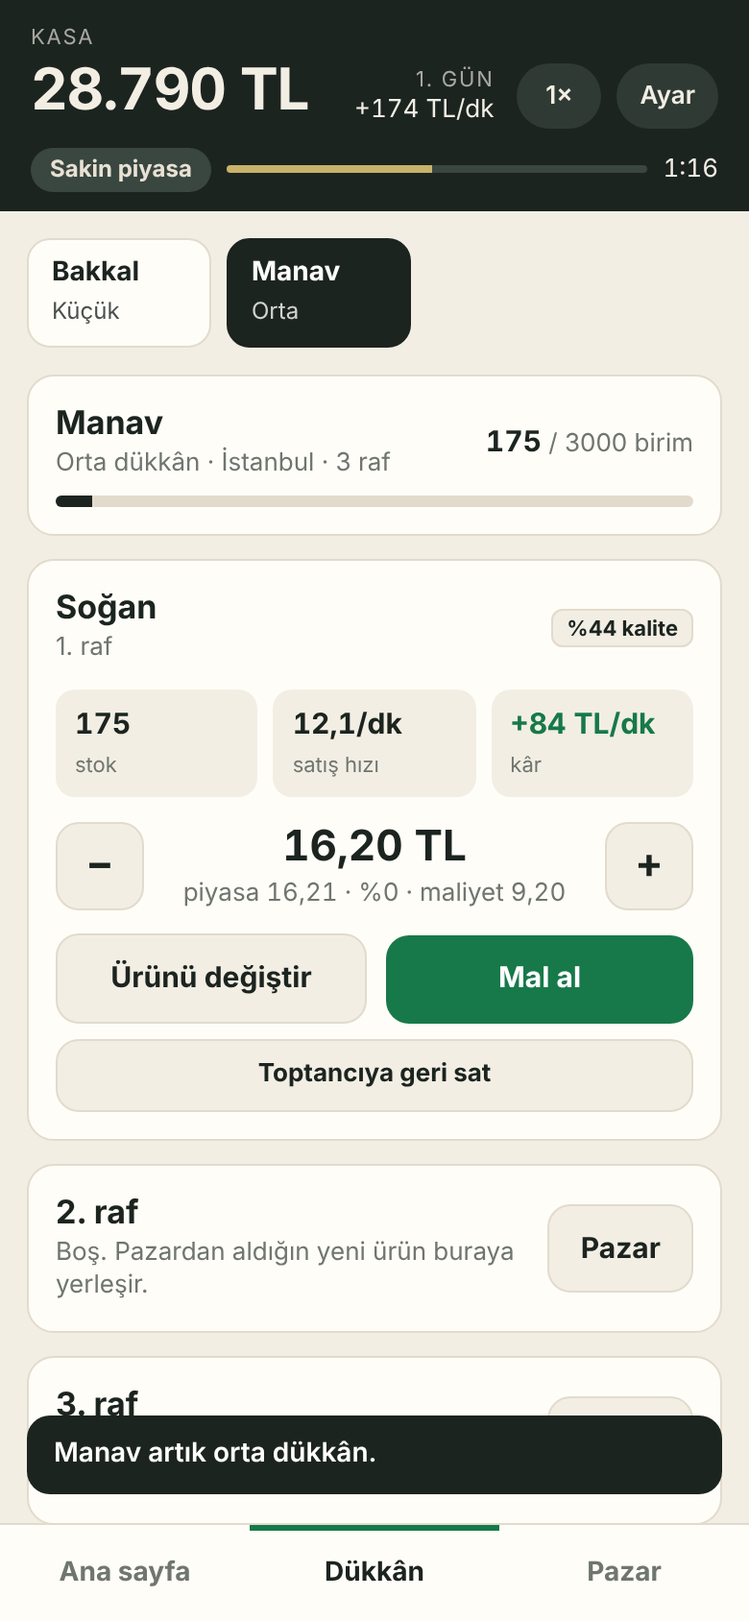
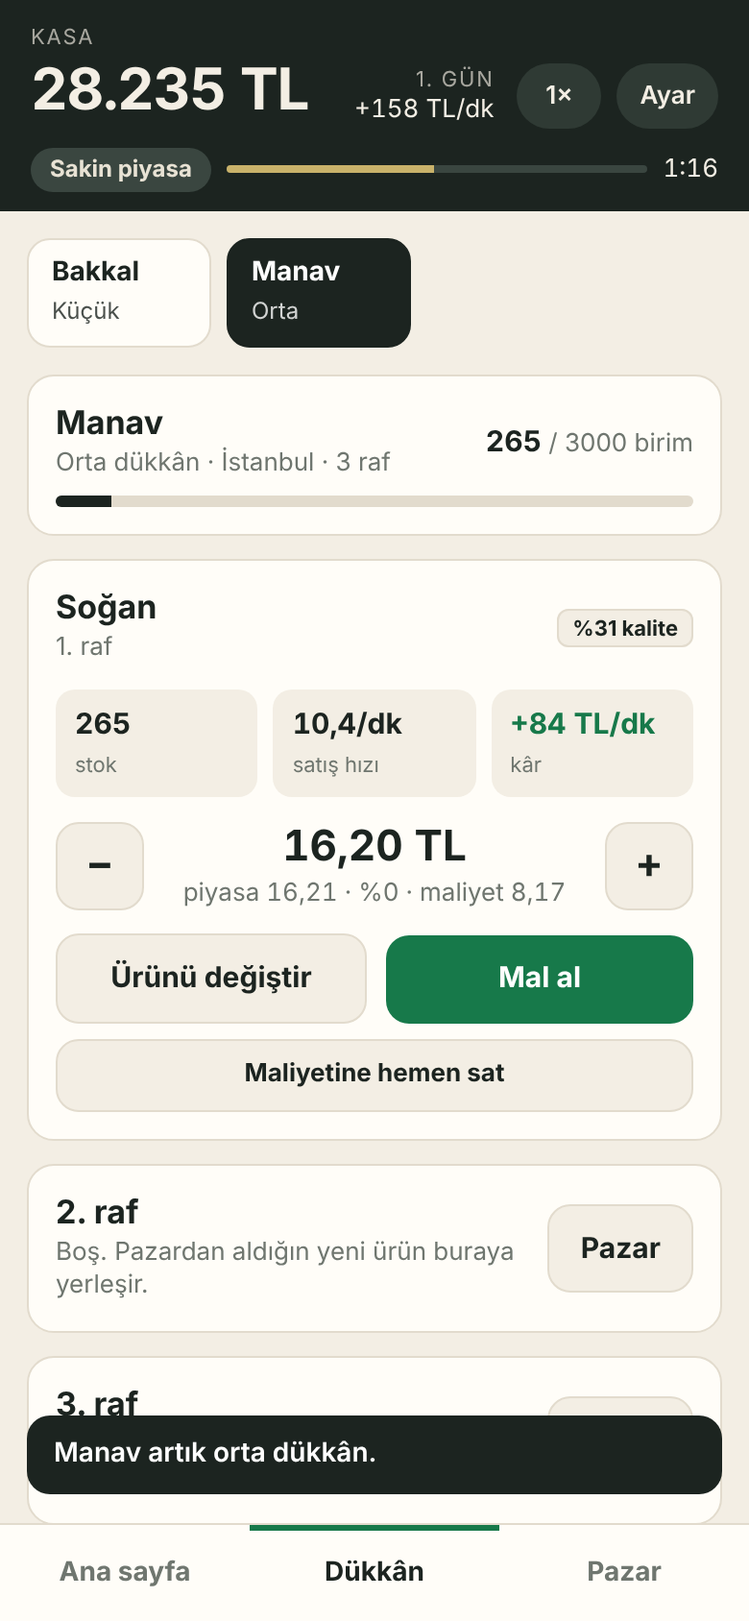
Pazarda ilan verme; geri satış 'maliyetine hemen sat' oldu (piyasa düşüşü riski oyuncuda)
Claude-Session: https://claude.ai/code/session_016ga1EdVkJkJaVmwRgvhwTG

diff --git a/src/ui.ts b/src/ui.ts
@@ -3,7 +3,7 @@
 import {CONFIG} from "./data/config";
 import {TYPES} from "./data/shops";
 import {tl,clamp} from "./format";
-import {S,P,T,PIDS,roundP,sysPrice,refPrice,ship,net,sysListing,allListings,shopOf,depotUsed,depotCap,qualMult,shelfRate,shopProfit,profitPerMin,shopRent,upCost,xpNeed,maxBuy,buy,upgrade,openShop,loanLimit,borrow,repay,step,newGame,setOnEv,snapshot,restore,interestRate,taxFor,dayProfit,rentTotal,sellBack,sellBackPrice,dayProfitEstimate} from "./engine";
+import {S,P,T,PIDS,roundP,sysPrice,refPrice,ship,net,sysListing,allListings,shopOf,depotUsed,depotCap,qualMult,shelfRate,shopProfit,profitPerMin,shopRent,upCost,xpNeed,maxBuy,buy,upgrade,openShop,loanLimit,borrow,repay,step,newGame,setOnEv,snapshot,restore,interestRate,taxFor,dayProfit,rentTotal,sellBack,sellBackPrice,dayProfitEstimate,shopOffers,offerFair,offerRateAt,offerSlots,createOffer,cancelOffer} from "./engine";
 
 /* ---- Arayüz ---- */
 const $=id=>document.getElementById(id);
@@ -11,7 +11,9 @@ let dirty=true,pend={},sheetL=null,sheetQ=0,toastT;
 const cur=()=>S.shops[S.cur];
 function toast(m){const t=$("toast"),up=$("sheetbg").classList.contains("on");t.style.top=up?"104px":"auto";t.style.bottom=up?"auto":"66px";t.textContent=m;t.classList.add("on");clearTimeout(toastT);toastT=setTimeout(()=>t.classList.remove("on"),2600)}
 setOnEv((k,d)=>{
-  if(k==="sale"){const p=pend[d.pid]||(pend[d.pid]={n:0,r:0,si:d.si});p.n+=d.n;p.r+=d.r}
+  if(k==="sale"){const p=pend[d.pid]||(pend[d.pid]={n:0,r:0,si:d.si,pid:d.pid});p.n+=d.n;p.r+=d.r}
+  else if(k==="offerSale"){const p=pend["o_"+d.pid]||(pend["o_"+d.pid]={n:0,r:0,si:d.si,pid:d.pid,o:1});p.n+=d.n;p.r+=d.r}
+  else if(k==="offerDone"){toast(P[d.pid].ad+" ilanın tükendi.");dirty=true}
   else if(k==="market"){const s=S.market.state;toast("Piyasa güncellendi: "+CONFIG.states[s].ad+(s==="canli"?". Fiyatlar yükseldi.":s==="kotu"?". Fiyatlar düştü.":"."));dirty=true}
   else if(k==="listings"){if(S.tab==="market"&&!sheetL)dirty=true}
   else if(k==="empty"){toast(P[d.pid].ad+" bitti. Raf boş.");dirty=true}
@@ -19,7 +21,7 @@ setOnEv((k,d)=>{
   else if(k==="day"){S.feed.unshift({t:d.day+". gün kapandı: "+d.sold+" satış; kira"+(d.interest>0?", faiz":"")+(d.tax>0?", vergi":""),v:-d.total,si:-1});dirty=true}
   else if(k==="dead"){openEnd()}
 });
-function flushFeed(){let ch=false;for(const id in pend){const p=pend[id];S.feed.unshift({t:p.n+" × "+P[id].ad,v:p.r,nw:1,si:p.si});ch=true}pend={};if(S.feed.length>40)S.feed.length=40;
+function flushFeed(){let ch=false;for(const id in pend){const p=pend[id];S.feed.unshift({t:(p.o?"Pazar: ":"")+p.n+" × "+P[p.pid].ad,v:p.r,nw:1,si:p.si});ch=true}pend={};if(S.feed.length>40)S.feed.length=40;
   if(ch&&S.tab==="shop"){const f=$("feed");if(f)f.innerHTML=feedHtml()}S.feed.forEach(x=>x.nw=0)}
 const feedHtml=()=>{const F=S.feed.filter(x=>x.si===S.cur||x.si===-1).slice(0,10);return F.length?F.map(x=>`<div class="${x.nw?"new":""}"><span>${x.t}</span><b class="num ${x.v<0?"dn":"up"}">${x.v<0?"−":"+"}${tl(Math.abs(x.v))} TL</b></div>`).join(""):`<div><span class="sub">Henüz satış yok.</span></div>`};
 function qTag(q){return `<span class="tag q ${q>=70?"hi":""}">%${Math.round(q)} kalite</span>`}
@@ -53,13 +55,25 @@ function renderShop(){
     h+=`<div class="card"><div class="row"><div><h2>${P[sf.pid].ad}</h2><div class="sub">${i+1}. raf</div></div><div>${st.q>0?qTag(st.qual):`<span class="tag k">Stok yok</span>`}</div></div>
     <div class="kv"><div><b class="num" id="q-${sf.pid}">${st.q}</b><span>stok</span></div><div><b class="num">${tl(rate,1)}/dk</b><span>satış hızı</span></div><div><b class="num ${pr>=0?"up":"dn"}">${st.q>0?(pr>=0?"+":"−")+tl(Math.abs(pr),0):"0"} TL/dk</b><span>kâr</span></div></div>
     <div class="price"><button class="step" data-a="price" data-i="${i}" data-v="-1" aria-label="Fiyatı azalt">−</button><div class="pmid"><b class="num">${tl(sf.price)} TL</b><div class="sub num">piyasa ${tl(ref)} · <span class="${diff>0.5?"dn":diff<-0.5?"up":""}">${Math.abs(diff)<.5?"":diff>0?"+":"−"}%${tl(Math.abs(diff),0)}</span> · maliyet ${tl(st.cost)}</div></div><button class="step" data-a="price" data-i="${i}" data-v="1" aria-label="Fiyatı artır">+</button></div>
-    <div class="row" style="margin-top:12px"><button class="btn ghost" style="flex:1" data-a="swap" data-i="${i}">Ürünü değiştir</button><button class="btn g" style="flex:1" data-a="goto" data-v="${sf.pid}">Mal al</button></div>${st.q>0?`<button class="btn ghost sm full" style="margin-top:8px" data-a="sellback" data-v="${sf.pid}">Toptancıya geri sat</button>`:""}</div>`});
+    <div class="row" style="margin-top:12px"><button class="btn ghost" style="flex:1" data-a="swap" data-i="${i}">Ürünü değiştir</button><button class="btn g" style="flex:1" data-a="goto" data-v="${sf.pid}">Mal al</button></div>${st.q>0?`<button class="btn ghost sm full" style="margin-top:8px" data-a="sellback" data-v="${sf.pid}">Maliyetine hemen sat</button>`:""}</div>`});
   const c=upCost(sh);if(c!=null){const z=CONFIG.sizes[sh.size+1];h+=`<div class="card goal"><div class="row"><div><h2>${z.ad} dükkâna büyüt</h2><div class="sub">${z.shelves} raf, ${tl(z.depot,0)} birim depo. Kira ${tl(Math.round(z.rent*t.tier*CONFIG.rentScale),0)} TL/gün olur.</div></div>${costBtn("upgrade",c)}</div><div class="depo"><i id="goalB" data-c="${c}" style="width:${clamp(S.cash/c*100,0,100)}%"></i></div></div>`}
   h+=`<div class="card"><h2 style="margin-bottom:6px">Son satışlar</h2><div class="feed" id="feed">${feedHtml()}</div></div>`;
   return h}
-function renderMarket(){
+function renderMarket(){const sh=cur(),n=shopOffers(sh).length,mv=S.mview==="offers"?"offers":"buy";
+  const seg=`<div class="seg"><button class="${mv==="buy"?"on":""}" data-a="mview" data-v="buy">Mal al</button><button class="${mv==="offers"?"on":""}" data-a="mview" data-v="offers">İlanlarım (${n}/${offerSlots(sh)})</button></div>`;
+  return mv==="offers"?shopChips()+seg+renderOffers():renderBuy(seg)}
+function renderOffers(){const sh=cur(),os=shopOffers(sh),slots=offerSlots(sh);
+  let h=`<div class="card"><h2>Pazarda ilan</h2><div class="sub" style="margin-top:4px">Depondaki malı toptan satışa çıkar. Alıcılar piyasa değerine yakın fiyatlı ilanları alır; fiyatı düşürdükçe hızlanır. Komisyon %${tl(CONFIG.offerFee*100,0)}. İlandaki mal depoda yer tutar, raftan satılmaz.</div></div>`;
+  os.forEach(o=>{const fair=offerFair(o.pid,o.q),rate=offerRateAt(o.pid,o.q,o.price),df=(o.price/fair-1)*100,unit=o.price*(1-CONFIG.offerFee)-o.cost;
+    h+=`<div class="card"><div class="row"><div><h2>${P[o.pid].ad}</h2><div class="sub num"><span id="o-${o.id}">${o.qty}</span> birim kaldı</div></div>${qTag(o.q)}</div>
+    <div class="kv"><div><b class="num">${tl(o.price)} TL</b><span>ilan fiyatı</span></div><div><b class="num ${rate>0?"":"dn"}">${tl(rate,1)}/dk</b><span>${rate>0?"alıcı hızı":"alıcı yok"}</span></div><div><b class="num ${unit>=0?"up":"dn"}">${unit>=0?"+":"−"}${tl(Math.abs(unit))} TL</b><span>birim kâr</span></div></div>
+    <div class="sub num" style="margin-top:10px">Piyasa değeri ${tl(fair)} TL · ilanın ${Math.abs(df)<.5?"tam değerinde":"%"+tl(Math.abs(df),0)+(df>0?" üstünde":" altında")} · maliyetin ${tl(o.cost)} TL</div>
+    <button class="btn ghost full sm" style="margin-top:10px" data-a="ocancel" data-v="${o.id}">İlanı geri çek</button></div>`});
+  h+=os.length<slots?`<button class="btn full" data-a="offernew">İlan ver</button>`:`<div class="sub" style="text-align:center;padding:8px">İlan hakkın doldu. Dükkânı büyütünce artar.</div>`;
+  return h}
+function renderBuy(seg){
   const sh=cur(),t=T[sh.type],id=S.sel[t.id],p=P[id],h0=S.market.hist[id],prev=h0.length>1?h0[h0.length-2]:h0[0],c0=sysPrice(id),ch=(c0/prev-1)*100,st=sh.stock[id];
-  let h=shopChips()+`<div class="prods">`+t.products.map(a=>{if(S.level<P[a[0]].lvl)return `<button class="lock" data-a="sel" data-v="${a[0]}"><b>${a[1]}</b><span>${P[a[0]].lvl}. seviye</span></button>`;const b=allListings(a[0])[0];return `<button class="${a[0]===id?"on":""}" data-a="sel" data-v="${a[0]}"><b>${a[1]}</b><span class="num">${tl(net(b))} TL</span></button>`}).join("")+`</div>`;
+  let h=shopChips()+seg+`<div class="prods">`+t.products.map(a=>{if(S.level<P[a[0]].lvl)return `<button class="lock" data-a="sel" data-v="${a[0]}"><b>${a[1]}</b><span>${P[a[0]].lvl}. seviye</span></button>`;const b=allListings(a[0])[0];return `<button class="${a[0]===id?"on":""}" data-a="sel" data-v="${a[0]}"><b>${a[1]}</b><span class="num">${tl(net(b))} TL</span></button>`}).join("")+`</div>`;
   h+=`<div class="card"><div class="row"><div><h2>${p.ad}</h2><div class="sub num">Sistem fiyatı ${tl(c0)} TL <span class="${ch>0.5?"up":ch<-0.5?"dn":""}">${Math.abs(ch)<.5?"":(ch>0?"▲":"▼")+" %"+tl(Math.abs(ch),0)}</span></div></div><div style="text-align:right"><b class="num">${tl(refPrice(id))} TL</b><div class="sub">dükkânda satılır</div></div></div>${spark(id)}<div class="sub num">${t.ad} deposunda: ${st.q} birim${st.q?` · %${Math.round(st.qual)} kalite · ${tl(st.cost)} TL maliyet`:""} · temel hız ${tl(p.rate,1)}/dk</div></div>`;
   allListings(id).forEach((l,i)=>{const mrg=(refPrice(id)/net(l)-1)*100;
     h+=`<button class="lst ${l.sys?"sys":""}" data-a="open" data-v="${l.id}"><div class="row"><div><b>${l.seller}</b> ${i===0&&!l.sys?`<span class="tag best">En ucuz</span>`:""} ${l.kelepir?`<span class="tag k">Kelepir</span>`:""}<div class="sm">${l.city} · ${l.km} km · ${l.sys?"sınırsız":l.qty+" birim"}</div></div><div style="text-align:right"><div class="net num">${tl(net(l))} TL</div><div class="sm num">${tl(l.price)} + ${tl(ship(l))} nakliye</div></div></div><div class="row" style="margin-top:8px">${qTag(l.q)}<span class="sm num">hız ×${tl(qualMult(l.q),1)} · <span class="${mrg>0?"up":"dn"}">${mrg>=0?"+":"−"}%${tl(Math.abs(mrg),0)} marj</span></span></div></button>`});
@@ -76,6 +90,7 @@ function tickUI(){
   if(S.tab==="shop"){const sh=cur(),d=depotUsed(sh),n=$("depoN");if(n){n.textContent=d;$("depoB").style.width=d/depotCap(sh)*100+"%"}
     sh.shelves.forEach(sf=>{if(sf){const e=$("q-"+sf.pid);if(e)e.textContent=sh.stock[sf.pid].q}});
     const g=$("goalB");if(g)g.style.width=clamp(S.cash/+g.dataset.c*100,0,100)+"%"}
+  if(S.tab==="market")shopOffers(cur()).forEach(o=>{const e=$("o-"+o.id);if(e)e.textContent=o.qty});
   if(S.tab==="home"){const b=$("xpB");if(b){const a0=+b.dataset.a0,a1=+b.dataset.a1;b.style.width=clamp((S.xp-a0)/(a1-a0)*100,0,100)+"%";const dp=dayProfit(),tx=taxFor(Math.max(0,dp));$("dpT").textContent=tl(dp,0);$("txT").textContent=tx>0?"−"+tl(tx,0)+" TL":"vergi yok";$("xpT").textContent="Sonraki seviyeye "+tl(Math.max(0,a1-S.xp),0)+" TL ciro"}}
   $("main").querySelectorAll("[data-cost]").forEach(b=>{if(b.disabled!==(S.cash<+b.dataset.cost))dirty=true});
 }
@@ -109,13 +124,27 @@ function bankSheet(){sheetL=null;const lim=loanLimit(),av=Math.floor(Math.max(0,
     if(est<=0){w.textContent="Rafların şu an kâr üretmiyor; bu faizi mal satarak karşılaman gerekecek.";w.className="sub dn"}
     else if(fi>est*.5){w.textContent="Dikkat: bu faiz, tahmini günlük kârının (%"+tl(est?fi/est*100:0,0)+") yarısından fazlasını götürür.";w.className="sub dn"}
     else{w.textContent="Bu faiz, tahmini günlük kârının %"+tl(fi/est*100,0)+" kadarı.";w.className="sub"}};b.oninput=u;u()}if(q){const u=()=>$("pv").textContent=f(+q.value);q.oninput=u;u()}}
+let sheetO=null;
+function offerPick(){sheetL=null;const sh=cur(),have=T[sh.type].products.map(a=>P[a[0]]).filter(p=>sh.stock[p.id].q>0);
+  openSheet(`<h2 style="margin-bottom:10px">Hangi malı ilana çıkaracaksın?</h2>`+(have.length?have.map(p=>{const st=sh.stock[p.id];return `<button class="lst" data-a="offerpid" data-v="${p.id}"><div class="row"><b>${p.ad}</b><span class="sm num">${st.q} birim · %${Math.round(st.qual)} · maliyet ${tl(st.cost)}</span></div></button>`}).join(""):`<div class="sub" style="margin-bottom:12px">Depoda mal yok. Önce pazardan al.</div>`)+`<button class="btn ghost full" data-a="close">Kapat</button>`)}
+function offerCalc(){const o=sheetO,sh=cur(),st=sh.stock[o.pid],fair=offerFair(o.pid,st.qual),rate=offerRateAt(o.pid,st.qual,o.price),df=(o.price/fair-1)*100,unit=o.price*(1-CONFIG.offerFee)-st.cost;o.qty=+$("oq").value;
+  $("oqv").textContent=o.qty+" birim";$("opv").textContent=tl(o.price)+" TL";$("opd").textContent=Math.abs(df)<.5?"piyasa değerinde":"piyasa değerinin %"+tl(Math.abs(df),0)+(df>0?" üstünde":" altında");
+  const r=$("ort");r.textContent=rate>0?tl(rate,1)+"/dk · yaklaşık "+tl(o.qty/rate,0)+" dk":"alıcı çıkmaz";r.className=rate>0?"":"dn";
+  const u=$("oun");u.textContent=(unit>=0?"+":"−")+tl(Math.abs(unit))+" TL";u.className=unit>=0?"up":"dn";$("otot").textContent=tl(o.qty*o.price*(1-CONFIG.offerFee),0)+" TL"}
+function offerForm(pid){const sh=cur(),st=sh.stock[pid],fair=offerFair(pid,st.qual);sheetO={pid,qty:st.q,price:roundP(fair)};
+  openSheet(`<div class="row"><div><h2>${P[pid].ad}: ilan ver</h2><div class="sub num">Piyasa değeri ${tl(fair)} TL · maliyetin ${tl(st.cost)} TL</div></div>${qTag(st.qual)}</div>
+  <div class="price"><button class="step" data-a="oprice" data-v="-1" aria-label="Fiyatı azalt">−</button><div class="pmid"><b class="num" id="opv"></b><div class="sub num" id="opd"></div></div><button class="step" data-a="oprice" data-v="1" aria-label="Fiyatı artır">+</button></div>
+  <div class="row" style="margin-top:14px"><b>Miktar</b><b class="num" style="font-size:20px" id="oqv"></b></div><input type="range" id="oq" min="1" max="${st.q}" value="${st.q}">
+  <table class="tbl num"><tr><td>Tahmini satış</td><td id="ort"></td></tr><tr><td>Komisyon sonrası birim kâr</td><td id="oun"></td></tr><tr><td>Hepsi satılırsa kasaya girer</td><td id="otot"></td></tr></table>
+  <button class="btn g full" data-a="ocreate">İlana çıkar</button><button class="btn ghost full" style="margin-top:8px" data-a="close">Vazgeç</button>`);
+  $("oq").oninput=offerCalc;offerCalc()}
 let sheetP=null;
-function sellCalc(){const sh=cur(),st=sh.stock[sheetP],q=+$("sr").value,p=sellBackPrice(sh,sheetP);$("sv").textContent=q+" birim";$("st1").textContent=tl(q*p)+" TL";$("st2").textContent="−"+tl(q*(st.cost-p))+" TL";$("sdo").textContent=q+" birimi geri sat"}
+function sellCalc(){const sh=cur(),st=sh.stock[sheetP],q=+$("sr").value,p=sellBackPrice(sh,sheetP);$("sv").textContent=q+" birim";$("st1").textContent=tl(q*p)+" TL";const z=q*(st.cost-p);$("st2").textContent=z>0.005?"−"+tl(z)+" TL":"yok";$("st2").className=z>0.005?"dn":"";$("sdo").textContent=q+" birimi hemen sat"}
 function sellSheet(pid){sheetL=null;sheetP=pid;const sh=cur(),st=sh.stock[pid],p=sellBackPrice(sh,pid);
-  openSheet(`<h2>${P[pid].ad}: toptancıya geri sat</h2><div class="sub">Sistem toptancısı malı her zaman maliyetinin altında geri alır. Nakde sıkıştığında ya da borç kapatırken çıkış yoludur.</div>
-  <table class="tbl num"><tr><td>Maliyetin</td><td>${tl(st.cost)} TL</td></tr><tr><td>Geri alım fiyatı</td><td class="dn">${tl(p)} TL</td></tr></table>
+  openSheet(`<h2>${P[pid].ad}: maliyetine hemen sat</h2><div class="sub">Mal anında maliyetine nakde döner. Piyasa, aldığın günden beri düştüyse düşüş kadar eksik ödenir. Kâr etmek için malı rafta ya da pazarda ilanla sat.</div>
+  <table class="tbl num"><tr><td>Maliyetin</td><td>${tl(st.cost)} TL</td></tr><tr><td>Hemen satış fiyatı</td><td class="${p<st.cost-.005?"dn":""}">${tl(p)} TL</td></tr></table>
   <div class="row"><b>Miktar</b><b class="num" style="font-size:20px" id="sv"></b></div><input type="range" id="sr" min="1" max="${st.q}" value="${st.q}">
-  <table class="tbl num"><tr><td>Kasaya girecek</td><td id="st1"></td></tr><tr><td>Zarar</td><td class="dn" id="st2"></td></tr></table>
+  <table class="tbl num"><tr><td>Kasaya girecek</td><td id="st1"></td></tr><tr><td>Zarar</td><td id="st2"></td></tr></table>
   <button class="btn full" data-a="dosell" id="sdo"></button><button class="btn ghost full" style="margin-top:8px" data-a="close">Vazgeç</button>`);
   $("sr").oninput=sellCalc;sellCalc()}
 function taxSheet(){sheetL=null;const dp=dayProfit(),f=x=>tl(x,0)+" TL";let lo=0;
@@ -140,7 +169,13 @@ document.addEventListener("click",e=>{
   else if(a==="bank"){bankSheet();return}
   else if(a==="tax"){taxSheet();return}
   else if(a==="sellback"){sellSheet(v);return}
-  else if(a==="dosell"){const q=+$("sr").value,r=sellBack(cur(),sheetP,q);closeSheet();if(r)toast(q+" birim "+P[sheetP].ad+" geri satıldı: "+tl(r,0)+" TL.")}
+  else if(a==="mview"){S.mview=v;top()}
+  else if(a==="offernew"){offerPick();return}
+  else if(a==="offerpid"){offerForm(v);return}
+  else if(a==="oprice"){const f=offerFair(sheetO.pid,cur().stock[sheetO.pid].qual),stp=Math.max(.05,roundP(f*.02));sheetO.price=clamp(roundP(sheetO.price+stp*v),roundP(f*.5),roundP(f*1.5));offerCalc();return}
+  else if(a==="ocreate"){const o=createOffer(cur(),sheetO.pid,sheetO.qty,sheetO.price);closeSheet();if(o)toast(o.qty+" birim "+P[o.pid].ad+" ilana çıktı.");else toast("İlan verilemedi.")}
+  else if(a==="ocancel"){if(cancelOffer(+v))toast("İlan geri çekildi, mal depoya döndü.")}
+  else if(a==="dosell"){const q=+$("sr").value,r=sellBack(cur(),sheetP,q);closeSheet();if(r)toast(q+" birim "+P[sheetP].ad+" satıldı: "+tl(r,0)+" TL.")}
   else if(a==="borrow"){const x=borrow(+$("bq").value);if(x)toast(tl(x,0)+" TL kredi çekildi.");bankSheet();tickUI();return}
   else if(a==="repay"){const x=repay(+$("pq").value);if(x)toast(tl(x,0)+" TL borç ödendi.");bankSheet();tickUI();return}
   else if(a==="goto"){S.cur=S.shops.indexOf(shopOf(v));S.sel[P[v].type]=v;S.tab="market";top()}

diff --git a/src/engine.ts b/src/engine.ts
@@ -5,20 +5,22 @@ import { CITIES, SELLERS } from "./data/world";
 import { clamp } from "./format";
 
 export interface Product { id: string; ad: string; sys: number; type: string; rate: number; markup: number; lvl: number }
-export interface Stock { q: number; qual: number; cost: number }
+export interface Stock { q: number; qual: number; cost: number; mref?: number } // mref: alış anındaki piyasa seviyesi (paçal)
 export interface Shelf { pid: string; price: number }
 export interface Shop { type: string; val: number; size: number; shelves: (Shelf | null)[]; stock: Record<string, Stock>; acc: Record<string, number> }
 export interface Listing { id: number; pid: string; seller: string; city: string; km: number; q: number; qty: number; price: number; kelepir?: boolean; sys?: boolean }
+export interface Offer { id: number; si: number; pid: string; qty: number; price: number; q: number; cost: number; acc: number; mref?: number }
 export interface FeedItem { t: string; v: number; si: number; nw?: number }
 export interface State {
   cash: number; debt: number; t: number; day: number; xp: number; level: number;
   shops: Shop[]; cur: number; sel: Record<string, string>; feed: FeedItem[];
   listings: Record<string, Listing[]>;
+  offers: Offer[];
   market: { state: MarketState; nextAt: number; mult: Record<string, number>; hist: Record<string, number[]> };
   churnAt: number; d: { rev: number; buy: number; sold: number; cogs: number };
   dead: boolean; speed: number; tab: "home" | "shop" | "market"; first: boolean;
 }
-export type Ev = "sale" | "market" | "listings" | "empty" | "level" | "day" | "dead";
+export type Ev = "offerSale" | "offerDone" | "sale" | "market" | "listings" | "empty" | "level" | "day" | "dead";
 
 export const P: Record<string, Product> = {};
 export const T: Record<string, ShopType> = {};
@@ -42,7 +44,7 @@ const pick = <X,>(a: X[]): X => a[Math.floor(rnd() * a.length)];
 export let S: State = null as unknown as State;
 let lid = 1;
 export const snapshot = () => ({ S, lid });
-export function restore(j: { S: State; lid: number }) { S = j.S; lid = j.lid; }
+export function restore(j: { S: State; lid: number }) { S = j.S; lid = j.lid; if (!S.offers) S.offers = []; }
 
 let onEv: (k: Ev, d?: any) => void = () => {};
 export function setOnEv(f: (k: Ev, d?: any) => void) { onEv = f; }
@@ -56,7 +58,7 @@ function mkShop(type: string): Shop {
   return sh;
 }
 export function newGame() {
-  S = { cash: CONFIG.startCash, debt: 0, t: 0, day: 1, xp: 0, level: 1, shops: [mkShop("bakkal")], cur: 0, sel: {}, feed: [], listings: {},
+  S = { cash: CONFIG.startCash, debt: 0, t: 0, day: 1, xp: 0, level: 1, shops: [mkShop("bakkal")], cur: 0, sel: {}, feed: [], listings: {}, offers: [],
     market: { state: "sakin", nextAt: CONFIG.marketSec, mult: {}, hist: {} }, churnAt: CONFIG.churnSec, d: { rev: 0, buy: 0, sold: 0, cogs: 0 }, dead: false, speed: 1, tab: "home", first: true };
   TYPES.forEach((t) => (S.sel[t.id] = t.products[0][0]));
   PIDS.forEach((id) => {
@@ -69,10 +71,11 @@ export function newGame() {
 // ---- Fiyatlar ve ilanlar ----
 export const sysPrice = (id: string) => P[id].sys * S.market.mult[id];
 export const refPrice = (id: string) => sysPrice(id) * (1 + P[id].markup);
+/** Kalite düştükçe toptan indirim büyür: %20 kalite ≈ %34, %85 kalite ≈ %8. */
+export const qualDiscount = (q: number) => 0.34 - ((q - 20) / 65) * 0.26;
 function genListing(id: string): Listing {
   const q = ri(20, 85), c = pick(CITIES);
-  // Kalite düştükçe indirim büyür: %20 kalite ≈ %34, %85 kalite ≈ %8 indirim.
-  let d = 0.34 - ((q - 20) / 65) * 0.26 + rr(-0.04, 0.04);
+  let d = qualDiscount(q) + rr(-0.04, 0.04);
   const kelepir = rnd() < 0.1;
   if (kelepir) d += rr(0.08, 0.14);
   return { id: lid++, pid: id, seller: pick(SELLERS), city: c[0], km: c[1], q, qty: ri(10, 80) * 10, price: +(sysPrice(id) * (1 - d)).toFixed(2), kelepir };
@@ -84,7 +87,9 @@ export function allListings(id: string): Listing[] { return S.listings[id].slice
 
 // ---- Dükkân ----
 export const shopOf = (pid: string) => S.shops.find((s) => s.type === P[pid].type);
-export const depotUsed = (sh: Shop) => Object.values(sh.stock).reduce((s, x) => s + x.q, 0);
+export const shopOffers = (sh: Shop) => S.offers.filter((o) => S.shops[o.si] === sh);
+/** İlana çıkarılan mal da depoda yer tutar. */
+export const depotUsed = (sh: Shop) => Object.values(sh.stock).reduce((s, x) => s + x.q, 0) + shopOffers(sh).reduce((s, o) => s + o.qty, 0);
 export const depotCap = (sh: Shop) => CONFIG.sizes[sh.size].depot;
 export const priceMult = (r: number) => clamp(1 + (1 - r) * 3, 0.6, 1.6);
 export const qualMult = (q: number) => (q >= 70 ? 1.4 : q >= 40 ? 0.9 + ((q - 40) / 30) * 0.2 : 0.8);
@@ -108,6 +113,8 @@ export function buy(l: Listing, qty: number) {
   qty = Math.min(qty, maxBuy(l));
   if (!sh || qty <= 0) return 0;
   const st = sh.stock[l.pid], cost = qty * net(l);
+  const m = S.market.mult[l.pid];
+  st.mref = ((st.mref || m) * st.q + m * qty) / (st.q + qty);
   st.qual = (st.qual * st.q + l.q * qty) / (st.q + qty);
   st.cost = (st.cost * st.q + cost) / (st.q + qty);
   st.q += qty; S.cash -= cost; S.d.buy += cost;
@@ -123,12 +130,13 @@ export function buy(l: Listing, qty: number) {
 export function upgrade(sh: Shop) { const c = upCost(sh); if (c == null || S.cash < c) return false; S.cash -= c; sh.val += c; sh.size++; fitShelves(sh); return true; }
 export function openShop(type: string) { const t = T[type]; if (S.level < t.level || S.cash < t.cost || S.shops.some((s) => s.type === type)) return false; S.cash -= t.cost; S.shops.push(mkShop(type)); return true; }
 
-/** Sistem toptancısının geri alım fiyatı. Her zaman maliyetin altındadır. */
+/** Hemen satış fiyatı: maliyet. Piyasa alış anından beri düştüyse düşüş oranında azalır; yükseldiyse maliyeti geçmez. */
 export function sellBackPrice(sh: Shop, pid: string) {
-  const st = sh.stock[pid];
-  return +Math.min(sysPrice(pid) * (CONFIG.sellBackBase + (CONFIG.sellBackQual * st.qual) / 100), st.cost * CONFIG.sellBackMaxCost).toFixed(2);
+  const st = sh.stock[pid], m = S.market.mult[pid];
+  const k = CONFIG.sellBackMarketRisk ? Math.min(1, m / (st.mref || m)) : 1;
+  return +(st.cost * k).toFixed(2);
 }
-/** Depodaki malı zararına nakde çevirir. Seviye puanı kazandırmaz. */
+/** Depodaki malı anında nakde çevirir. Kâr getirmez, seviye puanı kazandırmaz. */
 export function sellBack(sh: Shop, pid: string, qty: number) {
   const st = sh.stock[pid];
   qty = Math.min(qty, st.q);
@@ -140,8 +148,38 @@ export function sellBack(sh: Shop, pid: string, qty: number) {
   return r;
 }
 
+// ---- Pazarda ilan ----
+/** Bu kalitedeki malın pazardaki toptan değeri. */
+export const offerFair = (pid: string, q: number) => sysPrice(pid) * (1 - qualDiscount(q));
+/** Verilen fiyatla dakikada kaç birim alıcı bulur. */
+export const offerRateAt = (pid: string, q: number, price: number) => P[pid].rate * CONFIG.offerRateK * clamp(1 + (1 - price / offerFair(pid, q)) * CONFIG.offerPriceSens, 0, 2);
+export const offerSlots = (sh: Shop) => CONFIG.sizes[sh.size].offers;
+/** Depodaki malı ilana çıkarır. Mal depoda yer tutmaya devam eder, raftan satılmaz. */
+export function createOffer(sh: Shop, pid: string, qty: number, price: number): Offer | null {
+  const si = S.shops.indexOf(sh), st = sh.stock[pid];
+  qty = Math.min(Math.floor(qty), st ? st.q : 0);
+  if (si < 0 || qty <= 0 || !(price > 0) || shopOffers(sh).length >= offerSlots(sh)) return null;
+  const o: Offer = { id: lid++, si, pid, qty, price: +price.toFixed(2), q: st.qual, cost: st.cost, acc: 0, mref: st.mref };
+  st.q -= qty; if (st.q === 0) sh.acc[pid] = 0;
+  S.offers.push(o);
+  return o;
+}
+/** İlanı geri çeker: kalan mal depodaki stokla ağırlıklı ortalamayla birleşir. */
+export function cancelOffer(id: number) {
+  const o = S.offers.find((x) => x.id === id);
+  if (!o) return false;
+  const st = S.shops[o.si].stock[o.pid];
+  const m = S.market.mult[o.pid];
+  st.mref = ((st.mref || m) * st.q + (o.mref || m) * o.qty) / (st.q + o.qty);
+  st.qual = (st.qual * st.q + o.q * o.qty) / (st.q + o.qty);
+  st.cost = (st.cost * st.q + o.cost * o.qty) / (st.q + o.qty);
+  st.q += o.qty;
+  S.offers = S.offers.filter((x) => x !== o);
+  return true;
+}
+
 // ---- Banka ----
-export const assets = () => S.shops.reduce((s, sh) => s + sh.val + Object.values(sh.stock).reduce((a, x) => a + x.q * x.cost, 0), 0);
+export const assets = () => S.shops.reduce((s, sh) => s + sh.val + Object.values(sh.stock).reduce((a, x) => a + x.q * x.cost, 0), 0) + S.offers.reduce((s, o) => s + o.qty * o.cost, 0);
 export const loanLimit = () => Math.floor((assets() * CONFIG.loanRatio) / 100) * 100;
 export function borrow(x: number) { x = Math.min(x, loanLimit() - S.debt); if (x <= 0) return 0; S.debt += x; S.cash += x; return x; }
 export function repay(x: number) { x = Math.min(x, S.debt, Math.max(0, S.cash)); if (x <= 0) return 0; S.debt -= x; S.cash -= x; return x; }
@@ -196,7 +234,7 @@ function endDay() {
   S.cash -= total;
   ev("day", { day: S.day, sold: S.d.sold, rent, interest, tax, total });
   S.day++; S.d = { rev: 0, buy: 0, sold: 0, cogs: 0 };
-  if (S.cash < 0 && S.shops.every((sh) => depotUsed(sh) === 0)) { S.dead = true; ev("dead"); }
+  if (S.cash < 0 && S.offers.length === 0 && S.shops.every((sh) => depotUsed(sh) === 0)) { S.dead = true; ev("dead"); }
 }
 /** Oyunu dt saniye ilerletir. */
 export function step(dt: number) {
@@ -216,6 +254,18 @@ export function step(dt: number) {
       if (st.q === 0) { sh.acc[sf.pid] = 0; ev("empty", { pid: sf.pid }); }
     }
   }));
+  // Pazardaki ilanlar: toptan satış seviye puanı kazandırmaz.
+  for (const o of S.offers.slice()) {
+    o.acc += (offerRateAt(o.pid, o.q, o.price) * dt) / 60;
+    const n = Math.min(o.qty, Math.floor(o.acc));
+    if (n > 0) {
+      o.acc -= n; o.qty -= n;
+      const r = n * o.price * (1 - CONFIG.offerFee);
+      S.cash += r; S.d.rev += r; S.d.cogs = (S.d.cogs || 0) + n * o.cost;
+      ev("offerSale", { pid: o.pid, n, r, si: o.si });
+      if (o.qty === 0) { S.offers = S.offers.filter((x) => x !== o); ev("offerDone", { pid: o.pid }); }
+    }
+  }
   while (S.xp >= xpNeed(S.level + 1)) { S.level++; ev("level"); }
   while (S.t >= S.churnAt) { S.churnAt += CONFIG.churnSec; churn(); }
   while (S.t >= S.market.nextAt) marketUpdate();

diff --git a/tests/engine.test.ts b/tests/engine.test.ts
@@ -68,17 +68,51 @@ describe("banka", () => {
   });
 });
 
-describe("geri satış", () => {
-  it("her zaman maliyetin altındadır ve stoğu nakde çevirir", () => {
-    for (const q of [20, 50, 85]) {
-      k.setSeed(q); k.newGame();
-      const l = k.allListings("makarna").find((x) => !x.sys)!;
-      k.buy(l, 100);
-      const sh = k.S.shops[0], cost = sh.stock.makarna.cost, before = k.S.cash;
-      expect(k.sellBackPrice(sh, "makarna")).toBeLessThan(cost);
-      const r = k.sellBack(sh, "makarna", 40);
-      expect(sh.stock.makarna.q).toBe(60); expect(k.S.cash).toBeCloseTo(before + r); expect(r).toBeLessThan(40 * cost);
-    }
+describe("maliyetine hemen satış", () => {
+  const setup = () => { const l = k.allListings("makarna").find((x) => !x.sys)!; k.buy(l, 100); return k.S.shops[0]; };
+  it("piyasa değişmediyse tam maliyetine satar", () => {
+    const sh = setup(), cost = sh.stock.makarna.cost, before = k.S.cash;
+    const r = k.sellBack(sh, "makarna", 40);
+    expect(r).toBeCloseTo(40 * cost, 0); expect(sh.stock.makarna.q).toBe(60); expect(k.S.cash).toBeCloseTo(before + r);
+  });
+  it("piyasa düştüyse düşüş oranında eksik öder, yükseldiyse maliyeti geçmez", () => {
+    const sh = setup(), cost = sh.stock.makarna.cost, m0 = k.S.market.mult.makarna;
+    k.S.market.mult.makarna = m0 * 0.8;
+    expect(k.sellBackPrice(sh, "makarna")).toBeCloseTo(cost * 0.8, 1);
+    k.S.market.mult.makarna = m0 * 1.3;
+    expect(k.sellBackPrice(sh, "makarna")).toBeCloseTo(cost, 1);
+  });
+});
+
+describe("pazarda ilan", () => {
+  const stock = () => { k.buy(mk("makarna", 50, 10), 200); return k.S.shops[0]; };
+  it("piyasa değerinde beklenen hızda satılır, komisyon kesilir, seviye puanı vermez", () => {
+    const sh = stock(), fair = k.offerFair("makarna", 50), xp0 = k.S.xp;
+    sh.shelves[0] = null; // raf satışı karışmasın
+    const o = k.createOffer(sh, "makarna", 200, fair)!, cash0 = k.S.cash;
+    k.step(60);
+    const sold = 200 - o.qty;
+    expect(sold).toBeGreaterThanOrEqual(Math.floor(k.P.makarna.rate * CONFIG.offerRateK) - 1);
+    expect(k.S.cash).toBeCloseTo(cash0 + sold * o.price * (1 - CONFIG.offerFee), 1);
+    expect(k.S.xp).toBe(xp0);
+  });
+  it("piyasa değerinin %10 üstünde alıcı bulmaz", () => {
+    const sh = stock(); sh.shelves[0] = null;
+    const o = k.createOffer(sh, "makarna", 200, k.offerFair("makarna", 50) * 1.11)!;
+    k.step(60); expect(o.qty).toBe(200);
+  });
+  it("ilan hakkı dükkân boyutuyla sınırlıdır ve ilandaki mal depoda yer tutar", () => {
+    const sh = stock();
+    expect(k.createOffer(sh, "makarna", 50, 9)).not.toBeNull();
+    expect(k.createOffer(sh, "makarna", 50, 9)).toBeNull(); // küçük dükkân: 1 ilan
+    expect(k.depotUsed(sh)).toBe(200);
+  });
+  it("geri çekilen ilan depoya paçal olarak döner", () => {
+    const sh = stock(), o = k.createOffer(sh, "makarna", 100, 99)!;
+    k.S.cash = 1e5;
+    k.buy(mk("makarna", 80, 14), 100); // depoda artık 100 @%50 + 100 @%80
+    k.cancelOffer(o.id);
+    expect(sh.stock.makarna.q).toBe(300); expect(sh.stock.makarna.qual).toBeCloseTo(60); expect(k.S.offers.length).toBe(0);
   });
 });
 

diff --git a/src/data/config.ts b/src/data/config.ts
@@ -17,11 +17,13 @@ export const CONFIG = {
     { from: 0.8, k: 2.25 },
     { from: 1.0001, k: 4 },
   ],
-  // Malı sistem toptancısına geri satış: çıkış yoludur, kâr yolu değil.
-  // Birim fiyat = sistem fiyatı x (taban + kalite payı), ama hiçbir zaman maliyetin sellBackMaxCost katını geçmez.
-  sellBackBase: 0.35,
-  sellBackQual: 0.35,
-  sellBackMaxCost: 0.9,
+  // Maliyetine hemen satış: mal anında maliyetine nakde döner.
+  // true ise piyasa alış anına göre düştüyse düşüş oranında eksik ödenir (fiyat riski oyuncuda kalır).
+  sellBackMarketRisk: true,
+  // Pazarda ilan: alıcı hızı = ürünün taban hızı x offerRateK; fiyat piyasa değerinin %10 üstündeyse kimse almaz, %10 altındaysa iki kat hızlı gider.
+  offerRateK: 3,
+  offerPriceSens: 10,
+  offerFee: 0.05, // pazar komisyonu
   // Günlük kâr üzerinden dilimli vergi (her dilim yalnızca kendi aralığına uygulanır).
   taxBrackets: [
     { upTo: 1000, rate: 0 },
@@ -35,9 +37,9 @@ export const CONFIG = {
     kotu: { ad: "Kötü piyasa", m: 0.8 },
   },
   sizes: [
-    { ad: "Küçük", shelves: 1, depot: 1200, rent: 60, costK: 0 },
-    { ad: "Orta", shelves: 3, depot: 3000, rent: 300, costK: 0.6 },
-    { ad: "Büyük", shelves: 6, depot: 6000, rent: 700, costK: 3 },
+    { ad: "Küçük", shelves: 1, depot: 1200, rent: 60, costK: 0, offers: 1 },
+    { ad: "Orta", shelves: 3, depot: 3000, rent: 300, costK: 0.6, offers: 2 },
+    { ad: "Büyük", shelves: 6, depot: 6000, rent: 700, costK: 3, offers: 3 },
   ],
 };
 export type MarketState = keyof typeof CONFIG.states;

diff --git a/src/style.css b/src/style.css
@@ -68,3 +68,4 @@ input[type=range]{width:100%;height:36px;accent-color:var(--green)}
 #toast{position:absolute;left:14px;right:14px;bottom:66px;background:var(--ink);color:#fff;border-radius:12px;padding:11px 14px;font-size:14px;font-weight:600;opacity:0;transform:translateY(8px);transition:.25s;pointer-events:none;z-index:6}
 #toast.on{opacity:1;transform:none}
 svg.sp{display:block;width:100%;height:38px}
+.seg{display:flex;background:var(--line);border-radius:12px;padding:3px;margin-bottom:12px}.seg button{flex:1;padding:9px 0;border-radius:10px;font-weight:700;font-size:14px;color:var(--mut)}.seg button.on{background:var(--card);color:var(--ink)}

diff --git a/tools/play.py b/tools/play.py
@@ -13,7 +13,7 @@ with sync_playwright() as p:
     pg.click('#spd'); pg.click('#spd'); pg.wait_for_timeout(6000)
     pg.click('[data-a=price][data-v="1"]'); pg.wait_for_timeout(300); pg.screenshot(path=out+'/4-dukkan.png')
     pg.click('[data-a=settings]'); pg.wait_for_timeout(200); pg.screenshot(path=out+'/5-ayar.png'); pg.click('[data-a=close]')
-    pg.click('#t-market'); pg.wait_for_timeout(200); pg.screenshot(path=out+'/6-pazar2.png'); pg.evaluate('()=>{const S=__k.S;S.cash=40000;S.xp=20000;S.speed=1}'); pg.wait_for_timeout(600); pg.click('#t-home'); pg.wait_for_timeout(300); pg.click('[data-a=openshop]'); pg.wait_for_timeout(300); pg.click('.lst >> nth=0'); pg.click('#sbuy'); pg.wait_for_timeout(300); pg.click('[data-a=upgrade]'); pg.wait_for_timeout(300); pg.screenshot(path=out+'/7-manav.png'); pg.click('#t-home'); pg.wait_for_timeout(400); pg.click('[data-a=bank]'); pg.wait_for_timeout(200); pg.screenshot(path=out+'/9-banka.png'); pg.click('[data-a=borrow]'); pg.wait_for_timeout(200); pg.click('#sheet [data-a=close]'); pg.wait_for_timeout(300); pg.click('[data-a=tax]'); pg.wait_for_timeout(200); pg.screenshot(path=out+'/10-vergi.png'); pg.click('#sheet [data-a=close]'); pg.wait_for_timeout(1200); pg.screenshot(path=out+'/8-ana.png',full_page=False); pg.click('#t-shop'); pg.wait_for_timeout(300); pg.click('[data-a=sellback] >> nth=0'); pg.wait_for_timeout(200); pg.screenshot(path=out+'/11-gerisat.png'); pg.click('[data-a=dosell]'); pg.wait_for_timeout(300)
+    pg.click('#t-market'); pg.wait_for_timeout(200); pg.screenshot(path=out+'/6-pazar2.png'); pg.evaluate('()=>{const S=__k.S;S.cash=40000;S.xp=20000;S.speed=1}'); pg.wait_for_timeout(600); pg.click('#t-home'); pg.wait_for_timeout(300); pg.click('[data-a=openshop]'); pg.wait_for_timeout(300); pg.click('.lst >> nth=0'); pg.click('#sbuy'); pg.wait_for_timeout(300); pg.click('[data-a=upgrade]'); pg.wait_for_timeout(300); pg.screenshot(path=out+'/7-manav.png'); pg.click('#t-home'); pg.wait_for_timeout(400); pg.click('[data-a=bank]'); pg.wait_for_timeout(200); pg.screenshot(path=out+'/9-banka.png'); pg.click('[data-a=borrow]'); pg.wait_for_timeout(200); pg.click('#sheet [data-a=close]'); pg.wait_for_timeout(300); pg.click('[data-a=tax]'); pg.wait_for_timeout(200); pg.screenshot(path=out+'/10-vergi.png'); pg.click('#sheet [data-a=close]'); pg.wait_for_timeout(1200); pg.screenshot(path=out+'/8-ana.png',full_page=False); pg.click('#t-shop'); pg.wait_for_timeout(300); pg.click('[data-a=sellback] >> nth=0'); pg.wait_for_timeout(200); pg.screenshot(path=out+'/11-gerisat.png'); pg.evaluate('()=>{const r=document.getElementById("sr");r.value=5;r.dispatchEvent(new Event("input"))}'); pg.click('[data-a=dosell]'); pg.wait_for_timeout(300); pg.click('#t-market'); pg.wait_for_timeout(200); pg.click('[data-a=mview][data-v=offers]'); pg.wait_for_timeout(200); pg.click('[data-a=offernew]'); pg.wait_for_timeout(200); pg.click('[data-a=offerpid] >> nth=0'); pg.wait_for_timeout(200); pg.click('[data-a=oprice][data-v="-1"]'); pg.screenshot(path=out+'/12-ilan.png'); pg.click('[data-a=ocreate]'); pg.wait_for_timeout(2500); pg.screenshot(path=out+'/13-ilanlarim.png')
     info=pg.evaluate('''()=>{const S=__k.S;const over=[...document.querySelectorAll("#app *")].filter(e=>{const r=e.getBoundingClientRect();return r.width&&(r.right>391||r.left<-1)&&!e.closest(".prods")}).length;
       const small=[...document.querySelectorAll("#app *")].filter(e=>e.children.length==0&&e.textContent.trim()&&parseFloat(getComputedStyle(e).fontSize)<11).length;
       return {cash:S.cash,day:S.day,level:S.level,shops:S.shops.map(s=>s.type+s.size+':'+s.shelves.length),over,small,sw:document.documentElement.scrollWidth}}''')
